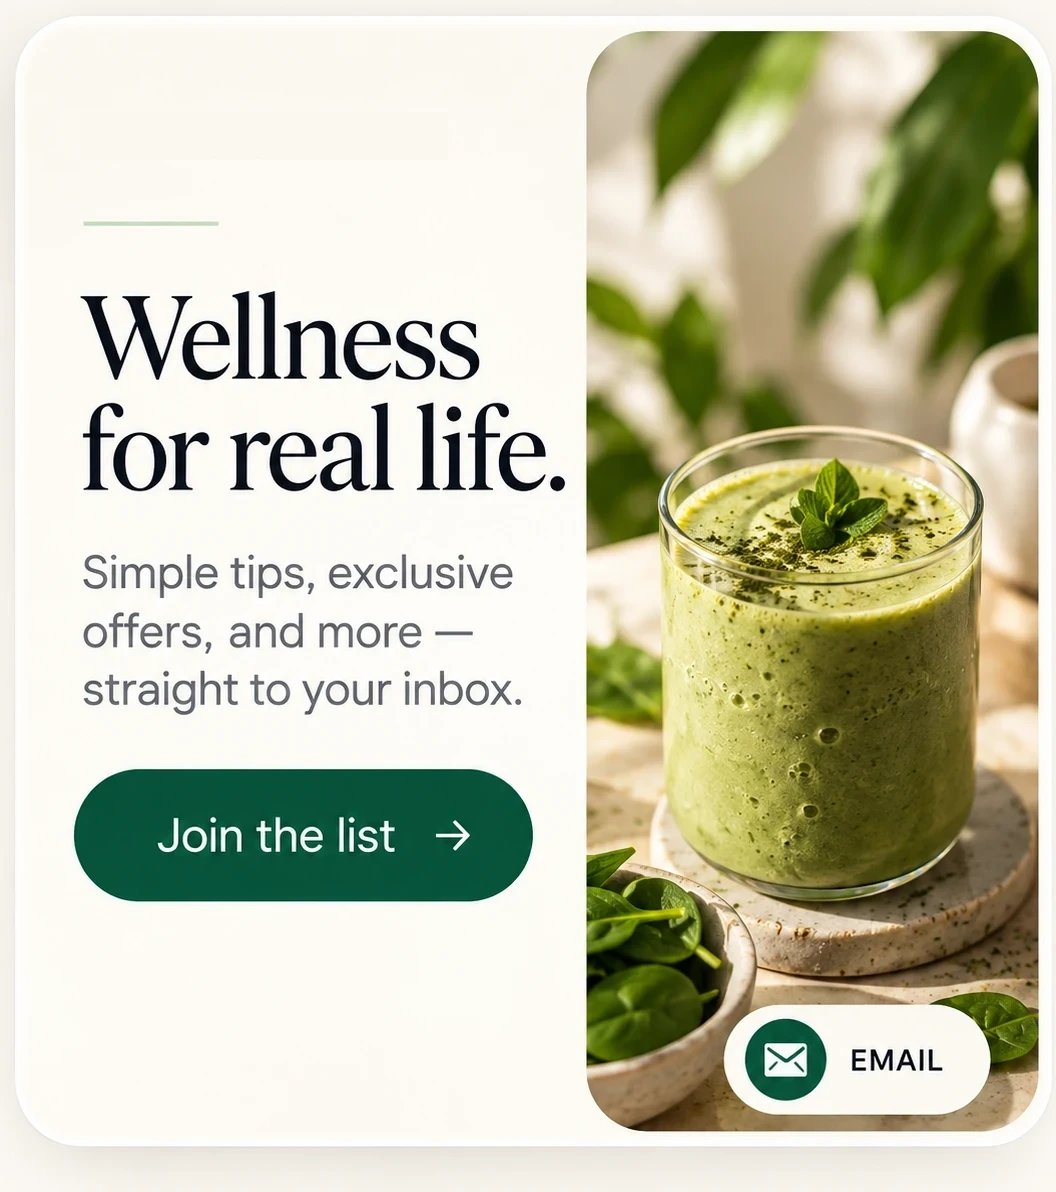
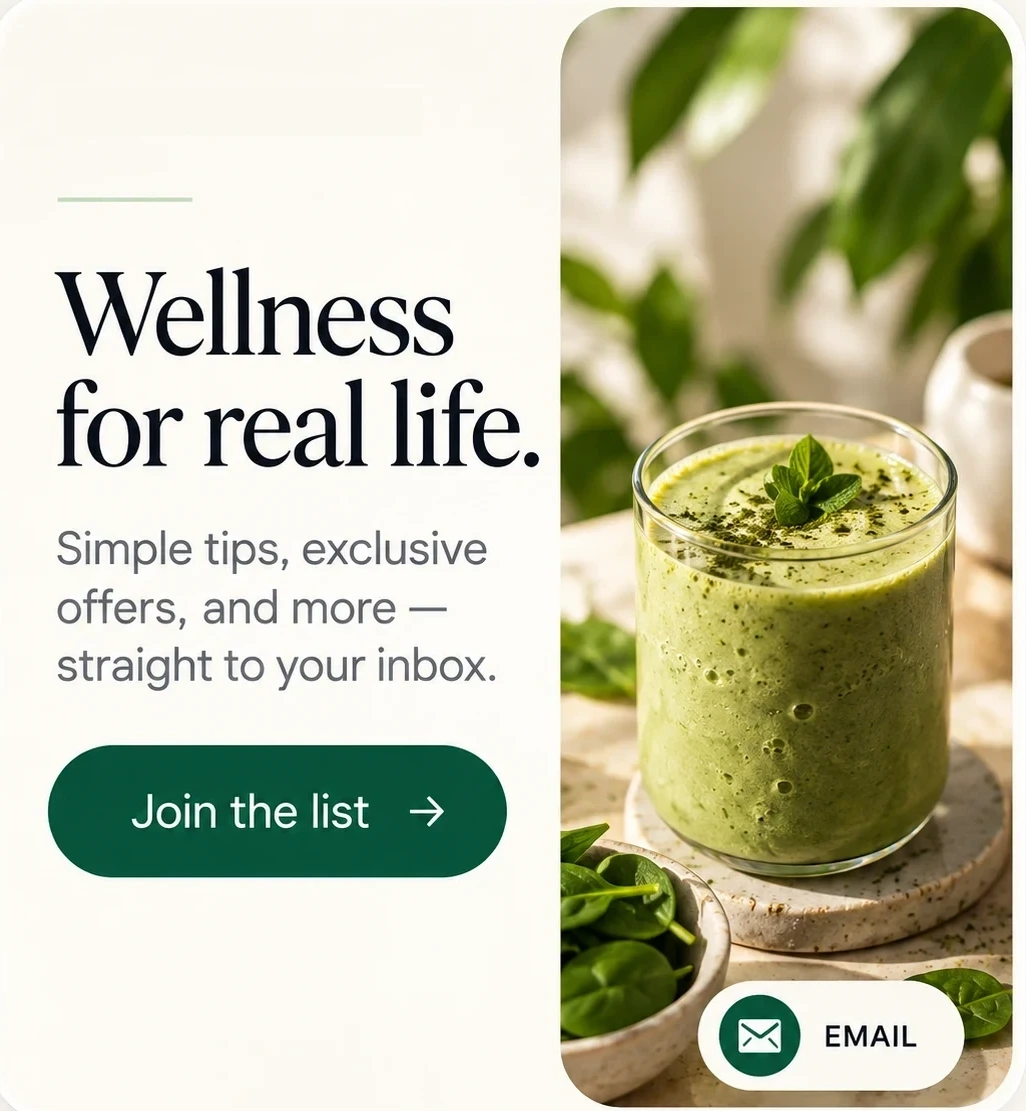
Take the borrowed branding off the reel, tighten the email card
The reel artwork is replaced with a version that has no avatar, handle or
caption, so the [your brand] overlay goes back on top of it. The counters,
progress bar and platform pill stay printed on the artwork, and are not
drawn again.

The email card's first crop left a strip of the old frame: 26px left, 25px
top, 4px right, 56px bottom, with the card's rounded corner sitting inside
it and reading as a border. Cropped flush, with the wordmark position and
the declared size following the new file. The other three cards were
checked the same way and have no flat edge left on them.

diff --git a/components/hero-cards.tsx b/components/hero-cards.tsx
@@ -53,10 +53,23 @@ export function HeroCards() {
         {/* Left stack: the reel, then the newsletter under it. */}
         <div className="flex w-[57%] flex-col gap-3 sm:gap-4">
           <figure className="relative overflow-hidden rounded-2xl shadow-[0_18px_44px_-18px_rgb(10_11_16/0.4)] transition-shadow duration-300 hover:shadow-[0_30px_64px_-20px_rgb(10_11_16/0.5)] sm:-rotate-1">
-            {/* No overlays: the artwork carries the avatar, handle, counters,
-                progress bar and platform pill itself. Drawing ours on top of
-                them printed each one twice. */}
             <Art art={s.video} />
+            {/* Only the identity is ours. The counters, progress bar and
+                platform pill are printed on the artwork, so drawing those
+                again would show each one twice. */}
+            <span className="absolute top-3 left-3 flex items-center gap-2">
+              <span className="grid size-7 place-items-center rounded-full bg-paper font-display text-[0.65rem] font-bold text-ink">
+                {s.handle.replace(/[^A-Za-z]/g, "").slice(0, 1).toUpperCase()}
+              </span>
+              <span className="leading-tight">
+                <span className="block font-display text-[0.7rem] font-semibold text-white drop-shadow">
+                  {s.handle}
+                </span>
+                <span className="block font-mono text-[0.6rem] text-white/75 drop-shadow">
+                  {s.posted}
+                </span>
+              </span>
+            </span>
           </figure>
 
           <figure className="relative overflow-hidden rounded-2xl shadow-[0_14px_36px_-18px_rgb(10_11_16/0.3)] transition-shadow duration-300 hover:shadow-[0_26px_56px_-20px_rgb(10_11_16/0.45)] sm:rotate-[0.5deg]">

diff --git a/lib/content.ts b/lib/content.ts
@@ -524,10 +524,10 @@ export const hero = {
     email: {
       src: "email-wellness",
       alt: "Email newsletter with a green smoothie",
-      w: 1056,
-      h: 1192,
-      wordmarkLeft: "7.4%",
-      wordmarkTop: "9.4%",
+      w: 1026,
+      h: 1111,
+      wordmarkLeft: "5.1%",
+      wordmarkTop: "7.8%",
     },
     /* The pencilled notes, cut from the same artwork as the cards rather
        than set in a handwriting face: the wording, the slant, the line
